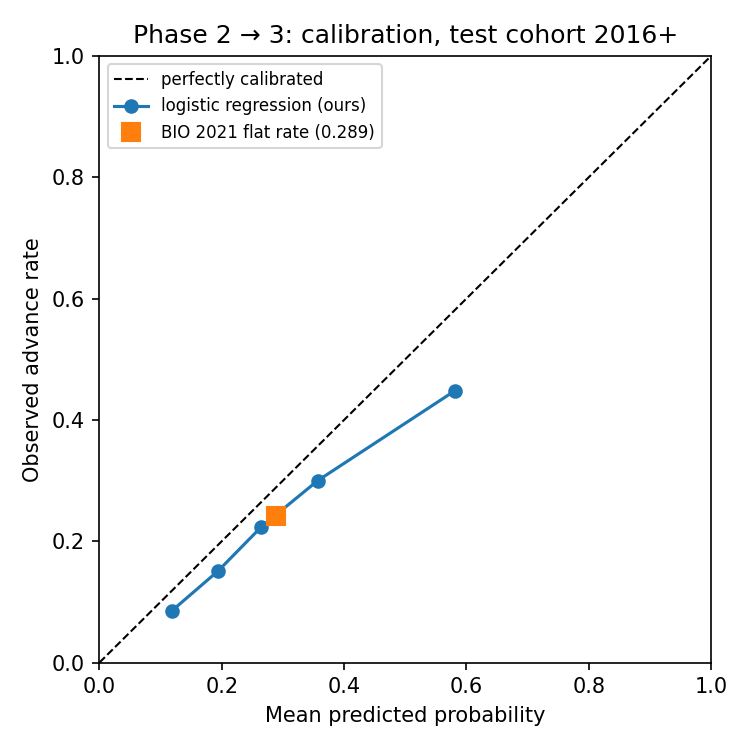
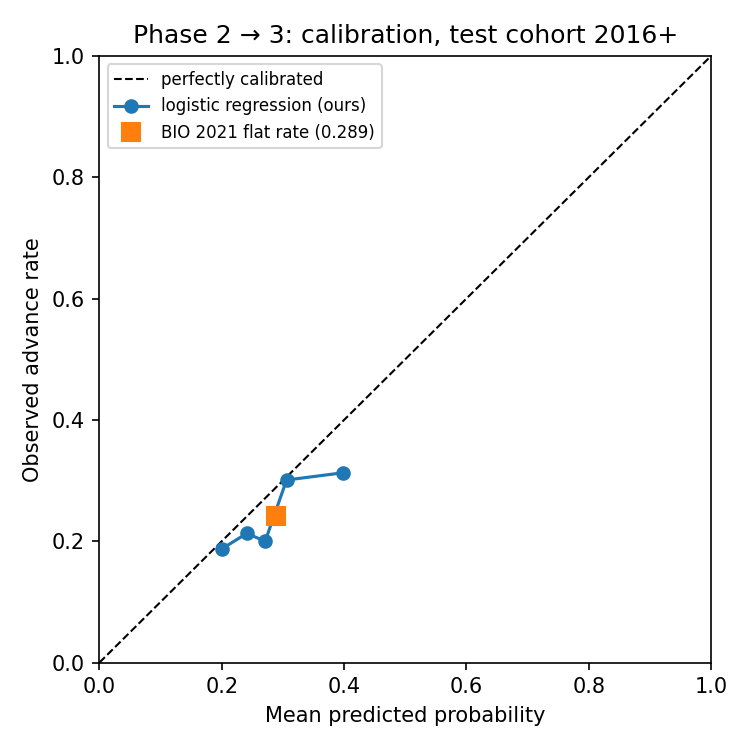
Fix lookahead leaks in Phase 2->3 baseline; benchmark against BIO area table
- Sponsor track record now uses only outcomes known before each program's entry date (a success on its next-phase date, a failure once its 5-year window closes). The old version used outcomes not yet known and accounted for nearly all of the earlier 0.169 Brier.

- Strict time split: train on entries up to 2015, test on 2016+, each drug on one side only. Older drugs' 2016+ programs (1,006 rows) are dropped instead of sitting in training.

- Drop log_enrollment: only ESTIMATED values are kept (~5% of train vs ~16% of test rows), and median imputation turned them into extreme outliers that drove the overconfident top fifth (50% predicted vs 23% actual).

- Add the entry trial's phase (Phase 1/2 vs Phase 2) as a feature; Phase 1/2 is 24% of train but 47% of test.

- Benchmark against BIO 2021's phase x disease-area table as well as the flat rate, with drug-clustered bootstrap 95% CIs and Brier skill scores.

Test set 2016-2021 (n=2,699): model Brier 0.1842 vs BIO by area 0.1911 (skill +3.7%, CI on difference -0.0128 to -0.0010), BIO flat 0.1855 (+0.7%, CI spans 0), own training-years area rates 0.1841 (tie). README results and calibration plot updated.

diff --git a/build_model.py b/build_model.py
@@ -32,8 +32,15 @@ BIO_RATE = 0.289  # BIO 2021, phase2_to_phase3, all indications -- LABEL_RULES.m
 
 # num_facilities / num_countries dropped: AACT stores the final site/country list, not what was
 # registered when Phase 2 started, so they'd leak how the trial actually played out (Deep's note).
-NUMERIC = ["log_enrollment", "number_of_arms", "sponsor_track_record", "has_us_site"]
-CATEGORICAL = ["allocation", "intervention_model", "masking", "disease_area"]
+# log_enrollment dropped too: it's only kept where enrollment_type is ESTIMATED, which is ~5% of
+# training rows but ~16% of test rows, and trials still carrying an estimate advance less often
+# (11-14% vs 26-29%). Median-imputing the rest made the few real values extreme outliers, which
+# drove the overconfident top fifth (predicted ~50%, actual ~23%).
+NUMERIC = ["number_of_arms", "sponsor_track_record", "has_us_site"]
+# phase = entry trial's phase. Phase 1/2 trials count as reaching Phase 2 but advance less often
+# (21-24% vs 27-29%), and their share doubles from train (24%) to test (47%).
+CATEGORICAL = ["phase", "allocation", "intervention_model", "masking", "disease_area"]
+N_BOOT = 2000
 
 
 def make_placeholder_labels(features: pd.DataFrame, n: int = 1200, seed: int = 0) -> pd.DataFrame:
@@ -66,25 +73,58 @@ def build_program_features(features: pd.DataFrame, transitions: pd.DataFrame) ->
     df["log_enrollment"] = np.log1p(df.enrollment)
     df["has_us_site"] = df.has_us_site.astype(float)
 
-    # sponsor track record: that sponsor's label rate on programs entered strictly before this one
-    # (same transition only, for now -- broaden to all three transitions once real data is in)
     df = df.sort_values("entry_date").reset_index(drop=True)
+    df["sponsor_track_record"] = sponsor_track_record(df)
+
+    # strict time split: train on entries up to 2015, test on 2016+, and keep every program of the
+    # same drug on one side (LABEL_RULES.md #8). An older drug's 2016+ programs fit neither side,
+    # so they're dropped rather than letting train see test-period outcomes.
+    year = df.entry_date.dt.year
+    drug_min_year = df.drug_id.map(df.groupby("drug_id").entry_date.min().dt.year)
+    df["split"] = np.select([year <= 2015, drug_min_year >= 2016], ["train", "test"], "dropped")
+    return df[df.split != "dropped"].reset_index(drop=True)
+
+
+def sponsor_track_record(df: pd.DataFrame) -> np.ndarray:
+    """That sponsor's label rate on programs whose outcome was already known before this one entered.
+    A success is known on next_date, a failure only once its window ran out (entry + window_years),
+    so a program entered in 2014 can't inform a 2016 prediction if it failed. Same transition only,
+    for now -- broaden to all three transitions later."""
+    known_date = df.next_date.where(df.label == 1, df.entry_date + pd.to_timedelta(df.window_years * 365.25, unit="D"))
     track_record = np.full(len(df), np.nan)
-    seen: dict[str, list[float]] = {}
-    for i, (sponsor, lbl) in enumerate(zip(df.lead_sponsor_name, df.label)):
-        hist = seen.get(sponsor, [])
-        if hist:
-            track_record[i] = float(np.mean(hist))
-        seen.setdefault(sponsor, []).append(lbl)
-    df["sponsor_track_record"] = track_record
-
-    # keep every program of the same drug on the same side of the split (LABEL_RULES.md #8)
-    drug_min_year = df.groupby("drug_id").entry_date.min().dt.year
-    df["split"] = np.where(df.drug_id.map(drug_min_year) <= 2015, "train", "test")
-    return df
+    for _, idx in df.groupby("lead_sponsor_name").indices.items():
+        order = np.argsort(known_date.iloc[idx].to_numpy())
+        known_sorted = known_date.iloc[idx].to_numpy()[order]
+        cum_labels = np.cumsum(df.label.iloc[idx].to_numpy()[order])
+        # count of the sponsor's outcomes known strictly before each program's entry date
+        n_known = np.searchsorted(known_sorted, df.entry_date.iloc[idx].to_numpy(), side="left")
+        has_hist = n_known > 0
+        track_record[idx[has_hist]] = cum_labels[n_known[has_hist] - 1] / n_known[has_hist]
+    return track_record
 
 
-def fit_and_evaluate(df: pd.DataFrame) -> dict:
+def load_bio_area_rates(path: Path) -> pd.Series:
+    """BIO 2021 Phase 2 -> 3 rate per disease area: the phase x area table analysts actually use."""
+    bio = pd.read_csv(path)
+    return bio[bio.transition == TRANSITION].set_index("disease_area").success_rate
+
+
+def clustered_bootstrap_ci(diff: np.ndarray, groups: np.ndarray, n_boot: int = N_BOOT,
+                           seed: int = 0) -> tuple[float, float]:
+    """95% CI for the mean of a per-row score difference, resampling whole drugs: one drug's
+    programs share most of their information, so resampling rows would make the CI too narrow."""
+    rng = np.random.default_rng(seed)
+    uniq, inverse = np.unique(groups, return_inverse=True)
+    sums = np.bincount(inverse, weights=diff)
+    counts = np.bincount(inverse)
+    means = np.empty(n_boot)
+    for b in range(n_boot):
+        pick = np.bincount(rng.integers(0, len(uniq), len(uniq)), minlength=len(uniq))
+        means[b] = (pick * sums).sum() / (pick * counts).sum()
+    return tuple(np.percentile(means, [2.5, 97.5]))
+
+
+def fit_and_evaluate(df: pd.DataFrame, bio_area_rates: pd.Series | None = None) -> dict:
     pre = ColumnTransformer([
         ("num", Pipeline([("impute", SimpleImputer(strategy="median")), ("scale", StandardScaler())]), NUMERIC),
         ("cat", OneHotEncoder(handle_unknown="ignore"), CATEGORICAL),
@@ -103,11 +143,26 @@ def fit_and_evaluate(df: pd.DataFrame) -> dict:
     overall_rate = train.label.mean()
     area_proba = test.disease_area.map(area_rate).fillna(overall_rate).to_numpy()
 
+    benchmarks = {"BIO flat rate": bio_proba, "train-years area rate": area_proba}
+    if bio_area_rates is not None:
+        # areas missing from BIO's table (e.g. Unknown) fall back to BIO's all-indications rate
+        benchmarks["BIO by area"] = test.disease_area.map(bio_area_rates).fillna(BIO_RATE).to_numpy()
+    y = test.label.to_numpy()
+    model_sq_err = (proba - y) ** 2
+    brier_model = model_sq_err.mean()
+    vs = {}
+    for name, bench in benchmarks.items():
+        brier_bench = brier_score_loss(y, bench)
+        lo, hi = clustered_bootstrap_ci(model_sq_err - (bench - y) ** 2, test.drug_id.to_numpy())
+        vs[name] = {"brier": brier_bench, "skill": 1 - brier_model / brier_bench, "diff": brier_model - brier_bench,
+                    "diff_ci": (lo, hi)}
+
     return {
         "n_train": len(train), "n_test": len(test),
-        "brier_model": brier_score_loss(test.label, proba),
+        "brier_model": brier_model,
         "brier_bio": brier_score_loss(test.label, bio_proba),
         "brier_area": brier_score_loss(test.label, area_proba),
+        "vs_benchmarks": vs,
         "log_loss_model": log_loss(test.label, proba, labels=[0, 1]),
         "log_loss_area": log_loss(test.label, area_proba, labels=[0, 1]),
         "calibration_curve": list(zip(mean_pred.round(3), frac_pos.round(3))),
@@ -138,6 +193,7 @@ def main() -> None:
     p = argparse.ArgumentParser()
     p.add_argument("--features", type=Path, default=HERE / "output" / "model" / "trial_design_features.csv")
     p.add_argument("--transitions", type=Path, default=HERE / "output" / "labels" / "transitions.csv")
+    p.add_argument("--bio", type=Path, default=HERE / "external" / "bio" / "bio2021_phase_transitions.csv")
     a = p.parse_args()
 
     features = pd.read_csv(a.features, parse_dates=["start"])
@@ -153,12 +209,14 @@ def main() -> None:
     print(f"programs with features + label: {len(df):,} "
           f"(train {len(df[df.split == 'train']):,}, test {len(df[df.split == 'test']):,})")
 
-    results = fit_and_evaluate(df)
+    results = fit_and_evaluate(df, load_bio_area_rates(a.bio))
     print(f"\nn_train={results['n_train']} n_test={results['n_test']} "
           f"test positive rate={results['test_positive_rate']:.3f}")
-    print(f"Brier -- model: {results['brier_model']:.4f}  "
-          f"BIO flat rate ({BIO_RATE}): {results['brier_bio']:.4f}  "
-          f"train-years area rate: {results['brier_area']:.4f}")
+    print(f"Brier -- model: {results['brier_model']:.4f}")
+    for name, v in results["vs_benchmarks"].items():
+        lo, hi = v["diff_ci"]
+        print(f"  vs {name:22s} {v['brier']:.4f}  skill {v['skill']:+.1%}  "
+              f"model minus benchmark {v['diff']:+.4f} (95% CI {lo:+.4f} to {hi:+.4f}, drug bootstrap)")
     print(f"Log loss -- model: {results['log_loss_model']:.4f}  area baseline: {results['log_loss_area']:.4f}")
     print("Train-years rate by disease area:", results["train_area_rates"])
     print("Calibration curve (mean predicted, observed fraction):", results["calibration_curve"])

diff --git a/README.md b/README.md
@@ -4,8 +4,8 @@ Investors value biotech drugs using fixed success rates from one industry table 
 
 ## Status
 
-- **Done:** v1 label built from raw ClinicalTrials.gov data and checked against BIO 2021. First baseline model (Phase 2 → 3) trained and beating the BIO benchmark.
-- **Next:** LightGBM, the other two transitions, calibration tuning.
+- **Done:** v1 label built from raw ClinicalTrials.gov data and checked against BIO 2021. First baseline model (Phase 2 → 3) trained; after fixing two lookahead leaks it beats BIO's phase × area table (Brier 0.184 vs 0.191) but only ties BIO's flat rate.
+- **Next:** match approvals to their disease, de-duplicate disease rows, drug-level features, LightGBM, the other two transitions.
 
 ## Label v1 vs BIO 2021
 
@@ -21,21 +21,39 @@ Phase 3 → approval matches BIO for cancer drugs (43.9% vs 43.9%) but is low ov
 
 `build_features.py` pulls trial-design features from AACT (masking, allocation, enrollment, sponsor,
 site counts) and `build_model.py` joins them onto the label table via `entry_nct_id`, then trains
-logistic regression. Enrollment is kept only where `enrollment_type` is `ESTIMATED` and site/country
-counts are left out entirely, since AACT stores the final values for both, not what was known when
-Phase 2 started. Sponsor track record only looks at that sponsor's earlier programs.
+logistic regression. Enrollment and site/country counts are left out of the model, since AACT stores
+the final values for all of them, not what was known when Phase 2 started. (`build_features.py` still
+keeps enrollment where `enrollment_type` is `ESTIMATED`, but that covers only ~5% of training rows and
+those trials skew toward ones that stalled, so using it made the model badly overconfident.) Sponsor track record only uses that sponsor's outcomes that were already known when
+the program entered Phase 2 (a success on its Phase 3 date, a failure only once its 5-year window ran out).
 
-Test set is entries from 2016 on (train is everything before), drugs kept on one side of the split only.
+Train is entries up to 2015, test is entries from 2016 on, with every program of a drug on one side.
+An older drug's 2016+ programs are dropped (1,006 rows) so train never sees test-period outcomes.
 
-| | Brier score |
-|---|---|
-| Logistic regression | 0.169 |
-| BIO 2021 flat rate (28.9%) | 0.186 |
-| Our own area-level rate, training years only | 0.186 |
+The entry trial's phase is a feature: Phase 1/2 trials count as reaching Phase 2 but advance less
+often, and they're 24% of training programs vs 47% of test programs.
 
-The area-only baseline doesn't beat BIO's flat number by itself, so the model's edge is coming from
-the trial-design features, not just the disease area. Calibration (`output/model/calibration_phase2_to_phase3.png`)
-is decent through the middle of the range and overconfident at the high end (predicts ~58%, actual ~45%).
+The main benchmark is BIO's **phase × disease-area table**, since that's what analysts plug into
+valuations; the flat all-indications rate is kept for reference. 95% CIs are for model minus
+benchmark, resampling whole drugs (2,000 draws), since one drug's programs aren't independent.
+Skill = 1 − model Brier / benchmark Brier.
+
+| Benchmark | Brier | Model skill | Model minus benchmark (95% CI) |
+|---|---|---|---|
+| **BIO 2021 by disease area** | 0.1911 | **+3.7%** | −0.0070 (−0.0128 to −0.0010) |
+| BIO 2021 flat rate (28.9%) | 0.1855 | +0.7% | −0.0013 (−0.0060 to +0.0040) |
+| Our own area-level rate, training years only | 0.1841 | 0.0% | +0.0001 (−0.0042 to +0.0047) |
+| *Logistic regression (ours)* | *0.1842* | | |
+
+The model beats BIO's area table, and the CI excludes zero on this split. In robustness checks the
+model stays ahead in earlier test periods (2011–12, 2013–15) and when each drug + trial is counted
+once, but those intervals include zero; the gain comes from non-oncology programs. It doesn't beat
+BIO's flat rate or our own area rates by a meaningful margin. BIO's area table does worse than its own flat rate on 2016+
+programs, so the area differences it reports don't hold up out of sample. An earlier version scored
+0.169, but nearly all of that edge came from a sponsor track record that used outcomes not yet known
+at entry. Calibration (`output/model/calibration_phase2_to_phase3.png`) is close through the middle
+and somewhat overconfident in the top fifth (predicts ~40%, actual ~31%). Part of that is a falling
+base rate: 27.6% of training programs advanced vs 24.2% in test.
 
 ## How the label works
 
